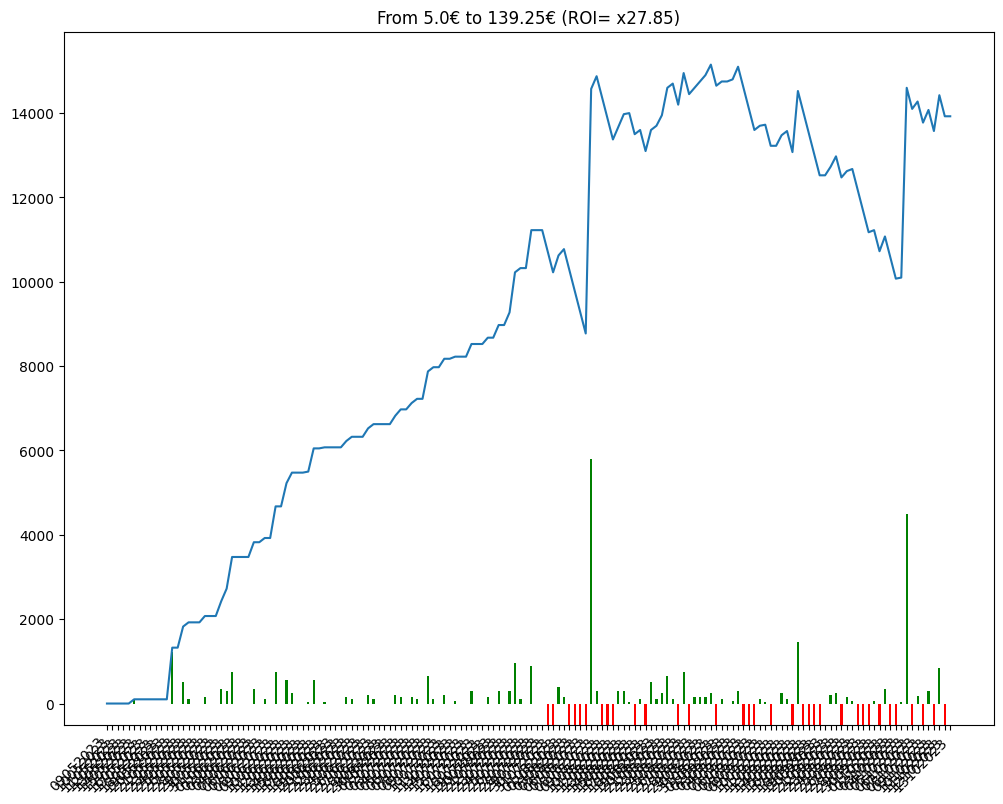
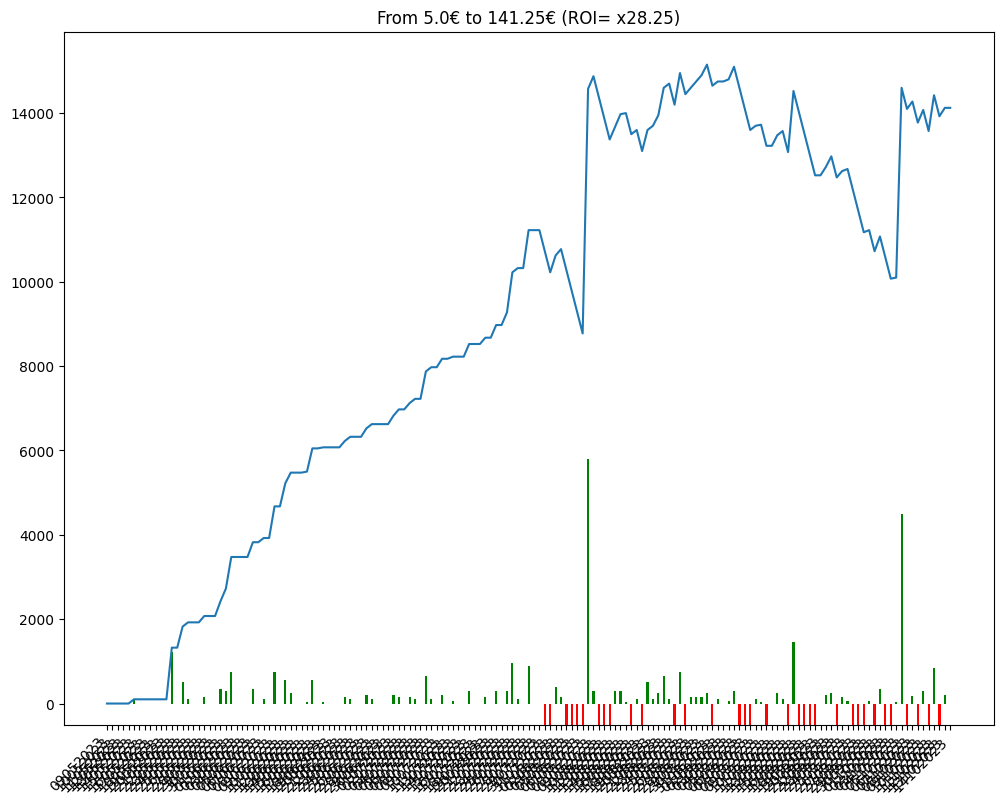
comment from python script

diff --git a/bethistory.html b/bethistory.html
@@ -86,7 +86,8 @@
             En observant la courbe 🤔, on peut avoir une idée visuelle de l'évolution des gains et ainsi évaluer le model utilisé 🧑🏫.
         </p>
         
-        <img src = "/candle.png" alt="candle chart"/><table><tr><td>Chevaux joués</td><td>Gains</td><td>URL Circuits</td></tr><tr><td>3 - TERREDEGUERRE</td><td>0</td><td><a href=https://www.pmu.fr/turf/13102023/r4/c3 target="_blank">https://www.pmu.fr/turf/13102023/r4/c3</a></td></tr>
+        <img src = "/candle.png" alt="candle chart"/><table><tr><td>Chevaux joués</td><td>Gains</td><td>URL Circuits</td></tr><tr><td>7 - GORMLAITH</td><td>0</td><td><a href=https://www.pmu.fr/turf/14102023/r2/c5 target="_blank">https://www.pmu.fr/turf/14102023/r2/c5</a></td></tr>
+<tr><td>3 - TERREDEGUERRE</td><td>+200</td><td><a href=https://www.pmu.fr/turf/13102023/r4/c3 target="_blank">https://www.pmu.fr/turf/13102023/r4/c3</a></td></tr>
 <tr><td>1 - BALTIMORE BOY</td><td>-500</td><td><a href=https://www.pmu.fr/turf/12102023/r5/c3 target="_blank">https://www.pmu.fr/turf/12102023/r5/c3</a></td></tr>
 <tr><td>1 - GIULIETTA</td><td>+850</td><td><a href=https://www.pmu.fr/turf/11102023/r2/c4 target="_blank">https://www.pmu.fr/turf/11102023/r2/c4</a></td></tr>
 <tr><td>3 - SOGNIAMO</td><td>-500</td><td><a href=https://www.pmu.fr/turf/10102023/r1/c7 target="_blank">https://www.pmu.fr/turf/10102023/r1/c7</a></td></tr>
